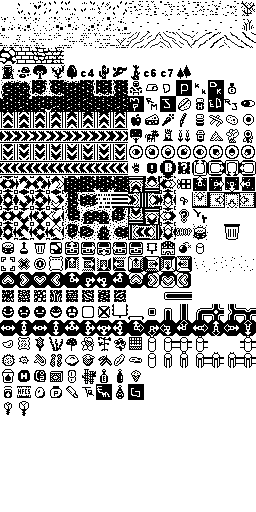
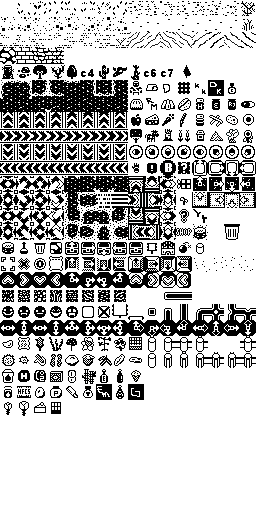
Add 1st draft of footsteps, add more cargo art

diff --git a/README.md b/README.md
@@ -37,4 +37,16 @@ https://sfxr.me/#11111SpE3itNmqgEP8gNpLPS6LHkm4CXTJ2GKw151oTsgidc9tC4oxTXZvFE69y
 no
 https://sfxr.me/#34T6Pm2BYpqq9QZRkH5vSB4Gfxmqr3FcWw341cmYx7gaExC8drYkg69EPcC1khLwRJyH6FT9qm57ET6WYVZHtcRtT1yyYmr1BgYQm5z2CMW4q9yN2gMA75NUD
 
-steps
+footsteps - default
+
+https://sfxr.me/#124DtXdHRAa7UT6t61Lhwi79cjv9JbWFPMJGNAf3YBh97aiNrHRDiMVboYavSPN7EN9tZxkP4nfo2KkUHJcEwdknDLbqJKPs5kGqm8UaZxmZdYV7uzR1hGcgAK
+
+https://sfxr.me/#12C1WXNSNAZaq5EXGTYdEqJybgJq25reyyXGu5mcgvF3iTVKe1BjNHWsn5ReXP4u47vMQP4crqfg5Vx4eViRWwKLqzrC9gNBX5hKPqs4KbRDEp2KydPWiV9GZ2
+
+https://sfxr.me/#1AhrpiDKNFEaXJNiZoGH6cyagT4rDu7DPxHux8yrBL8ygevLnYR1Wkx2VNEa61RwpGWpLHVvs5ZT671FBWALYNhv9CpbBj4vnJD3mBjwZE8kYw646rf92NCng
+
+https://sfxr.me/#124DtXdHRAa7UT6t61Lhwi79cjv9JbWFPMJGNAf3YBh97aiNrHRDiMVboYavSPN7EN9tZxkP4nfo2KkUHJcEwdknDLbqJKPs5kGqm8UaZxmZdYV7uzR1hGcgAK
+
+https://sfxr.me/#124DtXdHRAa7UT6t61Lhwi7A4qaA5nXRuMTEFxkGSVnkV9vMsM5vA5PkZzrVZ38svSWD3QvVhhypz1hXPsV3FCYazTozodLp8v7CqEQe7vu3cp3A6LxNJXjH6C
+
+https://sfxr.me/#124DtXdC92i53iL8vRaoW4ivLcdiRLdycT2YhYEFsbj1qwEQAbxPeYNCqLcbcNA7wwHBHQxB4ciqQfEuY2hEfDFctoycQNSAGNPPoxkexMSMEKyPSz1xcd3AHh
